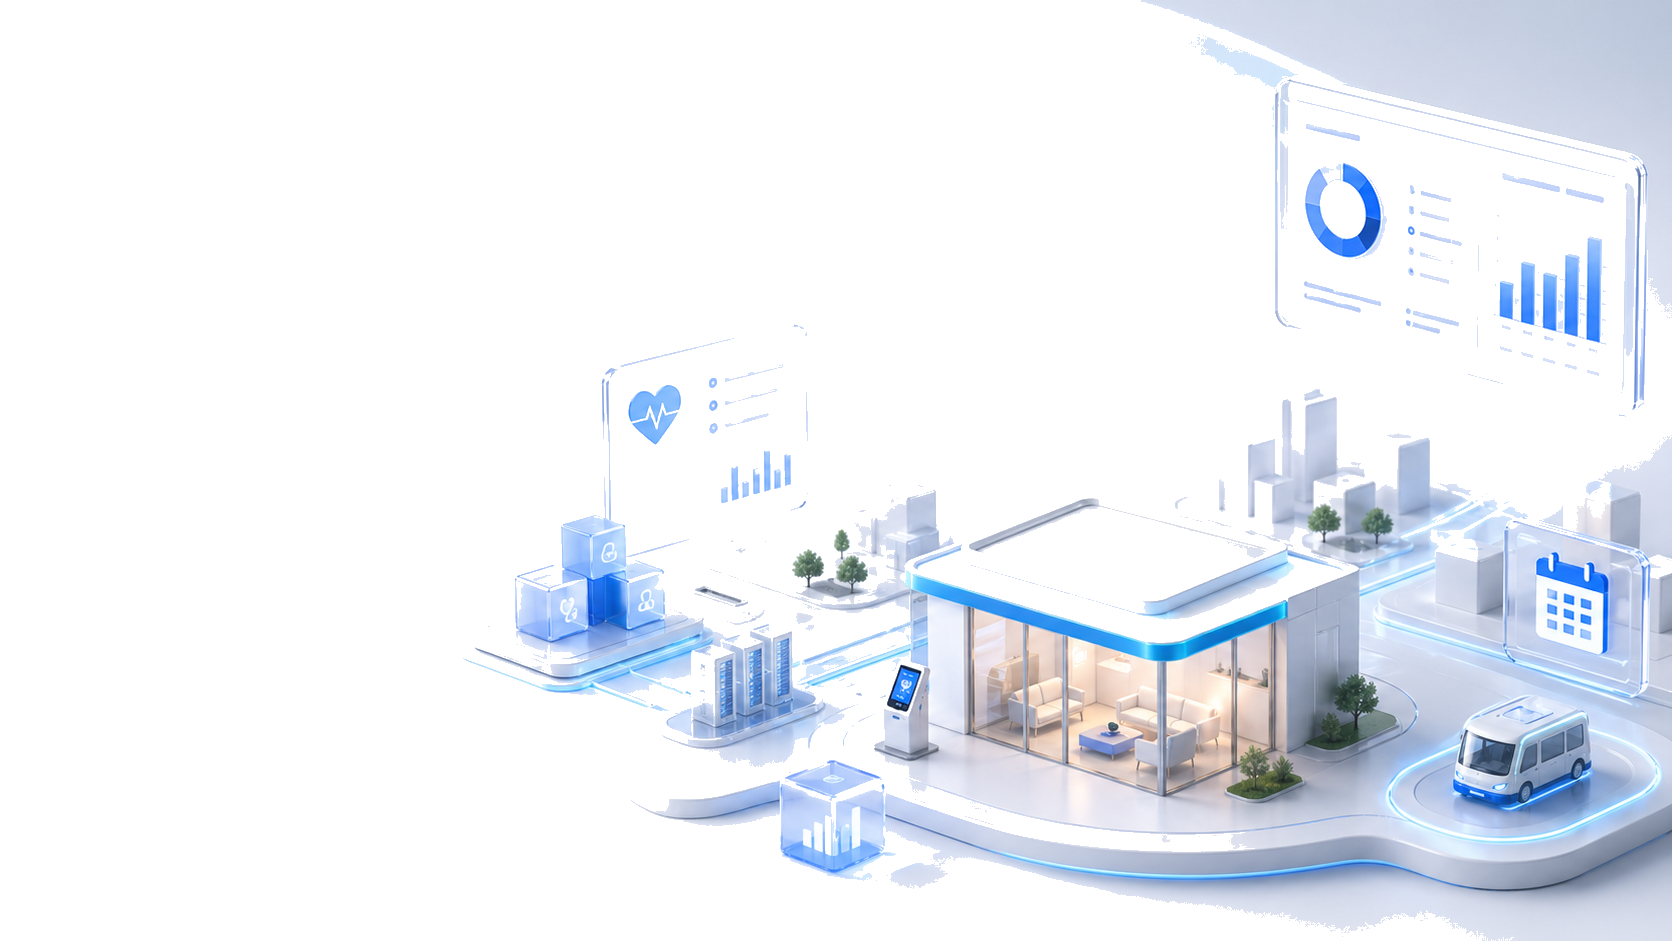
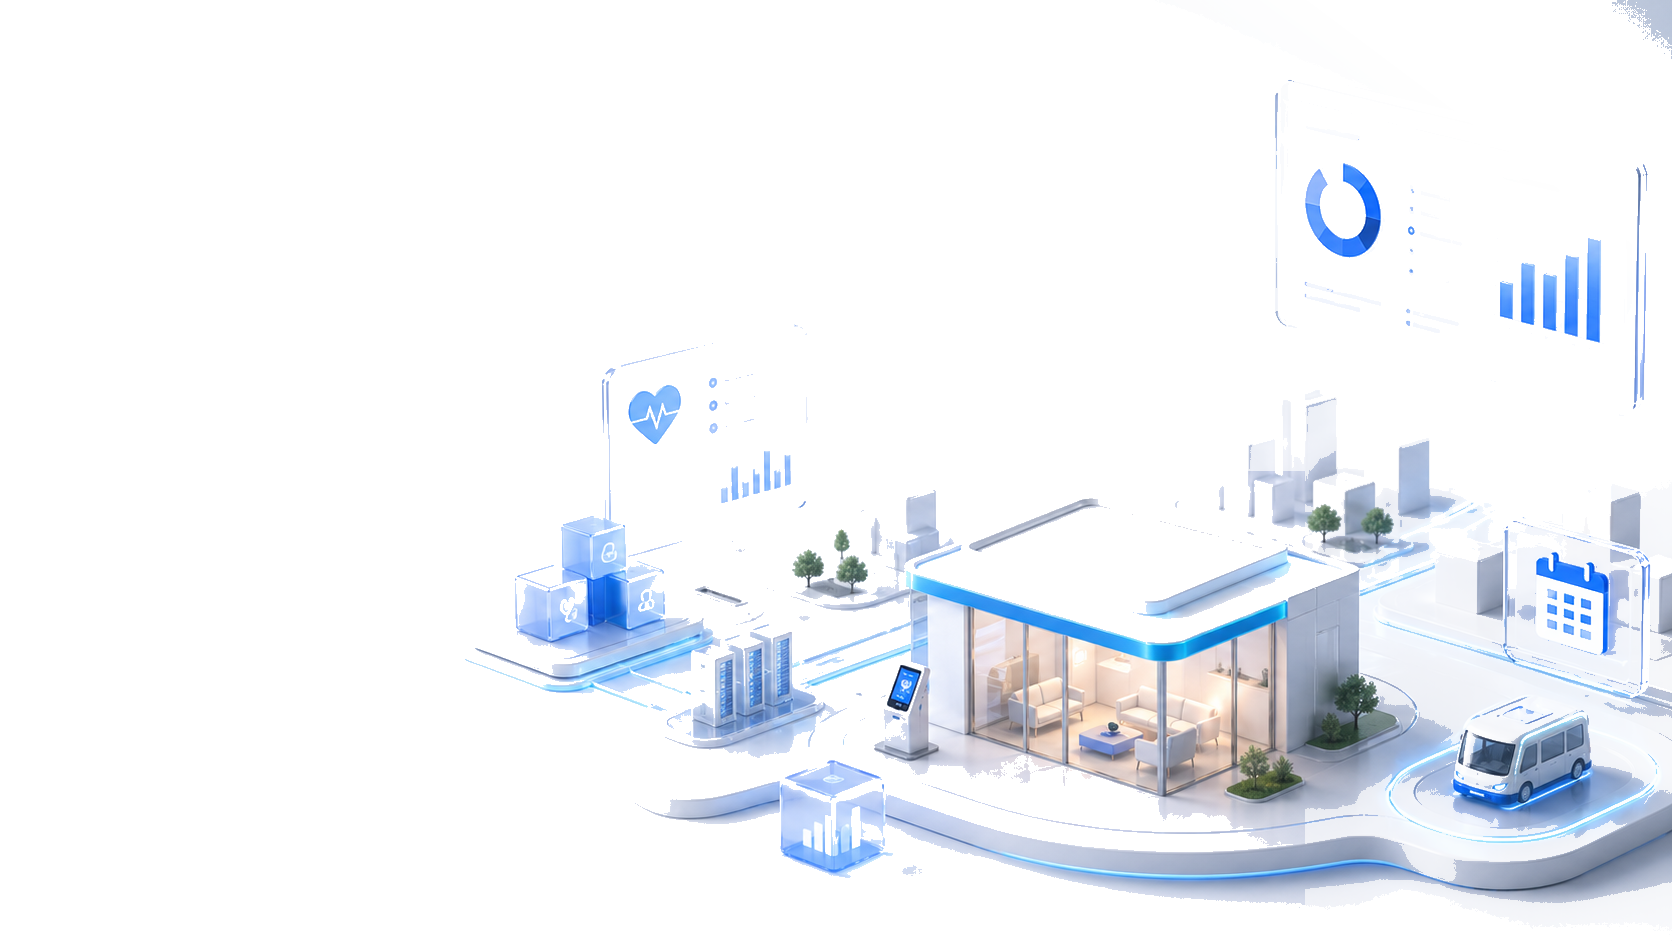
Fade hero object edges

diff --git a/about/index.html b/about/index.html
@@ -17,7 +17,7 @@
         <link rel="preconnect" href="https://fonts.googleapis.com">
         <link rel="preconnect" href="https://fonts.gstatic.com" crossorigin>
         <link href="https://fonts.googleapis.com/css2?family=Inter:wght@400;500;600;700&family=Noto+Sans+JP:wght@400;500;600;700&display=swap" rel="stylesheet">
-        <link rel="stylesheet" href="/assets/styles.css?v=20260428-object-only-hero">
+        <link rel="stylesheet" href="/assets/styles.css?v=20260428-hero-edge-fade">
         <script type="application/ld+json">{"@context":"https://schema.org","@type":"Organization","name":"株式会社Medixus","alternateName":"Medixus, Inc.","url":"https://medixus.jp","foundingDate":"2025","founder":{"@type":"Person","name":"大原健太郎"}}</script>
       </head>
       <body>
@@ -78,7 +78,7 @@
       <div class="container footer-grid">
         <div class="footer-brand">
           <a class="footer-logo" href="/" aria-label="Medixus トップページ">
-            <img class="footer-logo-image" src="/assets/images/medixus-logo-footer.png?v=20260428-object-only-hero" alt="Medixus">
+            <img class="footer-logo-image" src="/assets/images/medixus-logo-footer.png?v=20260428-hero-edge-fade" alt="Medixus">
           </a>
           <p>AIとテクノロジーの力で、すべての人に最高の医療を届ける社会を実現します。</p>
         </div>
@@ -118,6 +118,6 @@
       </div>
     </footer>
   
-        <script src="/assets/site.js?v=20260428-object-only-hero" defer></script>
+        <script src="/assets/site.js?v=20260428-hero-edge-fade" defer></script>
       </body>
     </html>

diff --git a/business/index.html b/business/index.html
@@ -17,7 +17,7 @@
         <link rel="preconnect" href="https://fonts.googleapis.com">
         <link rel="preconnect" href="https://fonts.gstatic.com" crossorigin>
         <link href="https://fonts.googleapis.com/css2?family=Inter:wght@400;500;600;700&family=Noto+Sans+JP:wght@400;500;600;700&display=swap" rel="stylesheet">
-        <link rel="stylesheet" href="/assets/styles.css?v=20260428-object-only-hero">
+        <link rel="stylesheet" href="/assets/styles.css?v=20260428-hero-edge-fade">
         <script type="application/ld+json">{"@context":"https://schema.org","@type":"Organization","name":"株式会社Medixus","alternateName":"Medixus, Inc.","url":"https://medixus.jp","foundingDate":"2025","founder":{"@type":"Person","name":"大原健太郎"}}</script>
       </head>
       <body>
@@ -100,7 +100,7 @@
       <div class="container footer-grid">
         <div class="footer-brand">
           <a class="footer-logo" href="/" aria-label="Medixus トップページ">
-            <img class="footer-logo-image" src="/assets/images/medixus-logo-footer.png?v=20260428-object-only-hero" alt="Medixus">
+            <img class="footer-logo-image" src="/assets/images/medixus-logo-footer.png?v=20260428-hero-edge-fade" alt="Medixus">
           </a>
           <p>AIとテクノロジーの力で、すべての人に最高の医療を届ける社会を実現します。</p>
         </div>
@@ -140,6 +140,6 @@
       </div>
     </footer>
   
-        <script src="/assets/site.js?v=20260428-object-only-hero" defer></script>
+        <script src="/assets/site.js?v=20260428-hero-edge-fade" defer></script>
       </body>
     </html>

diff --git a/contact/index.html b/contact/index.html
@@ -17,7 +17,7 @@
         <link rel="preconnect" href="https://fonts.googleapis.com">
         <link rel="preconnect" href="https://fonts.gstatic.com" crossorigin>
         <link href="https://fonts.googleapis.com/css2?family=Inter:wght@400;500;600;700&family=Noto+Sans+JP:wght@400;500;600;700&display=swap" rel="stylesheet">
-        <link rel="stylesheet" href="/assets/styles.css?v=20260428-object-only-hero">
+        <link rel="stylesheet" href="/assets/styles.css?v=20260428-hero-edge-fade">
         <script type="application/ld+json">{"@context":"https://schema.org","@type":"Organization","name":"株式会社Medixus","alternateName":"Medixus, Inc.","url":"https://medixus.jp","foundingDate":"2025","founder":{"@type":"Person","name":"大原健太郎"}}</script>
       </head>
       <body>
@@ -80,7 +80,7 @@
       <div class="container footer-grid">
         <div class="footer-brand">
           <a class="footer-logo" href="/" aria-label="Medixus トップページ">
-            <img class="footer-logo-image" src="/assets/images/medixus-logo-footer.png?v=20260428-object-only-hero" alt="Medixus">
+            <img class="footer-logo-image" src="/assets/images/medixus-logo-footer.png?v=20260428-hero-edge-fade" alt="Medixus">
           </a>
           <p>AIとテクノロジーの力で、すべての人に最高の医療を届ける社会を実現します。</p>
         </div>
@@ -120,6 +120,6 @@
       </div>
     </footer>
   
-        <script src="/assets/site.js?v=20260428-object-only-hero" defer></script>
+        <script src="/assets/site.js?v=20260428-hero-edge-fade" defer></script>
       </body>
     </html>

diff --git a/index.html b/index.html
@@ -17,7 +17,7 @@
         <link rel="preconnect" href="https://fonts.googleapis.com">
         <link rel="preconnect" href="https://fonts.gstatic.com" crossorigin>
         <link href="https://fonts.googleapis.com/css2?family=Inter:wght@400;500;600;700&family=Noto+Sans+JP:wght@400;500;600;700&display=swap" rel="stylesheet">
-        <link rel="stylesheet" href="/assets/styles.css?v=20260428-object-only-hero">
+        <link rel="stylesheet" href="/assets/styles.css?v=20260428-hero-edge-fade">
         <script type="application/ld+json">{"@context":"https://schema.org","@type":"Organization","name":"株式会社Medixus","alternateName":"Medixus, Inc.","url":"https://medixus.jp","foundingDate":"2025","founder":{"@type":"Person","name":"大原健太郎"}}</script>
       </head>
       <body>
@@ -262,7 +262,7 @@
       <div class="container footer-grid">
         <div class="footer-brand">
           <a class="footer-logo" href="/" aria-label="Medixus トップページ">
-            <img class="footer-logo-image" src="/assets/images/medixus-logo-footer.png?v=20260428-object-only-hero" alt="Medixus">
+            <img class="footer-logo-image" src="/assets/images/medixus-logo-footer.png?v=20260428-hero-edge-fade" alt="Medixus">
           </a>
           <p>AIとテクノロジーの力で、すべての人に最高の医療を届ける社会を実現します。</p>
         </div>
@@ -302,6 +302,6 @@
       </div>
     </footer>
   
-        <script src="/assets/site.js?v=20260428-object-only-hero" defer></script>
+        <script src="/assets/site.js?v=20260428-hero-edge-fade" defer></script>
       </body>
     </html>

diff --git a/ir/index.html b/ir/index.html
@@ -17,7 +17,7 @@
         <link rel="preconnect" href="https://fonts.googleapis.com">
         <link rel="preconnect" href="https://fonts.gstatic.com" crossorigin>
         <link href="https://fonts.googleapis.com/css2?family=Inter:wght@400;500;600;700&family=Noto+Sans+JP:wght@400;500;600;700&display=swap" rel="stylesheet">
-        <link rel="stylesheet" href="/assets/styles.css?v=20260428-object-only-hero">
+        <link rel="stylesheet" href="/assets/styles.css?v=20260428-hero-edge-fade">
         <script type="application/ld+json">{"@context":"https://schema.org","@type":"Organization","name":"株式会社Medixus","alternateName":"Medixus, Inc.","url":"https://medixus.jp","foundingDate":"2025","founder":{"@type":"Person","name":"大原健太郎"}}</script>
       </head>
       <body>
@@ -146,7 +146,7 @@
       <div class="container footer-grid">
         <div class="footer-brand">
           <a class="footer-logo" href="/" aria-label="Medixus トップページ">
-            <img class="footer-logo-image" src="/assets/images/medixus-logo-footer.png?v=20260428-object-only-hero" alt="Medixus">
+            <img class="footer-logo-image" src="/assets/images/medixus-logo-footer.png?v=20260428-hero-edge-fade" alt="Medixus">
           </a>
           <p>AIとテクノロジーの力で、すべての人に最高の医療を届ける社会を実現します。</p>
         </div>
@@ -186,6 +186,6 @@
       </div>
     </footer>
   
-        <script src="/assets/site.js?v=20260428-object-only-hero" defer></script>
+        <script src="/assets/site.js?v=20260428-hero-edge-fade" defer></script>
       </body>
     </html>

diff --git a/news/index.html b/news/index.html
@@ -17,7 +17,7 @@
         <link rel="preconnect" href="https://fonts.googleapis.com">
         <link rel="preconnect" href="https://fonts.gstatic.com" crossorigin>
         <link href="https://fonts.googleapis.com/css2?family=Inter:wght@400;500;600;700&family=Noto+Sans+JP:wght@400;500;600;700&display=swap" rel="stylesheet">
-        <link rel="stylesheet" href="/assets/styles.css?v=20260428-object-only-hero">
+        <link rel="stylesheet" href="/assets/styles.css?v=20260428-hero-edge-fade">
         <script type="application/ld+json">{"@context":"https://schema.org","@type":"Organization","name":"株式会社Medixus","alternateName":"Medixus, Inc.","url":"https://medixus.jp","foundingDate":"2025","founder":{"@type":"Person","name":"大原健太郎"}}</script>
       </head>
       <body>
@@ -104,7 +104,7 @@
       <div class="container footer-grid">
         <div class="footer-brand">
           <a class="footer-logo" href="/" aria-label="Medixus トップページ">
-            <img class="footer-logo-image" src="/assets/images/medixus-logo-footer.png?v=20260428-object-only-hero" alt="Medixus">
+            <img class="footer-logo-image" src="/assets/images/medixus-logo-footer.png?v=20260428-hero-edge-fade" alt="Medixus">
           </a>
           <p>AIとテクノロジーの力で、すべての人に最高の医療を届ける社会を実現します。</p>
         </div>
@@ -144,6 +144,6 @@
       </div>
     </footer>
   
-        <script src="/assets/site.js?v=20260428-object-only-hero" defer></script>
+        <script src="/assets/site.js?v=20260428-hero-edge-fade" defer></script>
       </body>
     </html>

diff --git a/os/index.html b/os/index.html
@@ -17,7 +17,7 @@
         <link rel="preconnect" href="https://fonts.googleapis.com">
         <link rel="preconnect" href="https://fonts.gstatic.com" crossorigin>
         <link href="https://fonts.googleapis.com/css2?family=Inter:wght@400;500;600;700&family=Noto+Sans+JP:wght@400;500;600;700&display=swap" rel="stylesheet">
-        <link rel="stylesheet" href="/assets/styles.css?v=20260428-object-only-hero">
+        <link rel="stylesheet" href="/assets/styles.css?v=20260428-hero-edge-fade">
         <script type="application/ld+json">{"@context":"https://schema.org","@type":"Organization","name":"株式会社Medixus","alternateName":"Medixus, Inc.","url":"https://medixus.jp","foundingDate":"2025","founder":{"@type":"Person","name":"大原健太郎"}}</script>
 <script type="application/ld+json">{"@context":"https://schema.org","@type":"FAQPage","mainEntity":[{"@type":"Question","name":"既存カルテから移行できますか？","acceptedAnswer":{"@type":"Answer","text":"CSV/ORCA対応予定です。"}},{"@type":"Question","name":"保険診療対応は？","acceptedAnswer":{"@type":"Answer","text":"現在は自由診療特化。今後ロードマップに含みます。"}},{"@type":"Question","name":"サポート体制は？","acceptedAnswer":{"@type":"Answer","text":"チャットとメールで対応します。初月は専任担当が導入を支援します。"}},{"@type":"Question","name":"最低契約期間は？","acceptedAnswer":{"@type":"Answer","text":"6ヶ月です。"}}]}</script>
       </head>
@@ -123,7 +123,7 @@
       <div class="container footer-grid">
         <div class="footer-brand">
           <a class="footer-logo" href="/" aria-label="Medixus トップページ">
-            <img class="footer-logo-image" src="/assets/images/medixus-logo-footer.png?v=20260428-object-only-hero" alt="Medixus">
+            <img class="footer-logo-image" src="/assets/images/medixus-logo-footer.png?v=20260428-hero-edge-fade" alt="Medixus">
           </a>
           <p>AIとテクノロジーの力で、すべての人に最高の医療を届ける社会を実現します。</p>
         </div>
@@ -163,6 +163,6 @@
       </div>
     </footer>
   
-        <script src="/assets/site.js?v=20260428-object-only-hero" defer></script>
+        <script src="/assets/site.js?v=20260428-hero-edge-fade" defer></script>
       </body>
     </html>

diff --git a/privacy/index.html b/privacy/index.html
@@ -17,7 +17,7 @@
         <link rel="preconnect" href="https://fonts.googleapis.com">
         <link rel="preconnect" href="https://fonts.gstatic.com" crossorigin>
         <link href="https://fonts.googleapis.com/css2?family=Inter:wght@400;500;600;700&family=Noto+Sans+JP:wght@400;500;600;700&display=swap" rel="stylesheet">
-        <link rel="stylesheet" href="/assets/styles.css?v=20260428-object-only-hero">
+        <link rel="stylesheet" href="/assets/styles.css?v=20260428-hero-edge-fade">
         <script type="application/ld+json">{"@context":"https://schema.org","@type":"Organization","name":"株式会社Medixus","alternateName":"Medixus, Inc.","url":"https://medixus.jp","foundingDate":"2025","founder":{"@type":"Person","name":"大原健太郎"}}</script>
       </head>
       <body>
@@ -62,7 +62,7 @@
       <div class="container footer-grid">
         <div class="footer-brand">
           <a class="footer-logo" href="/" aria-label="Medixus トップページ">
-            <img class="footer-logo-image" src="/assets/images/medixus-logo-footer.png?v=20260428-object-only-hero" alt="Medixus">
+            <img class="footer-logo-image" src="/assets/images/medixus-logo-footer.png?v=20260428-hero-edge-fade" alt="Medixus">
           </a>
           <p>AIとテクノロジーの力で、すべての人に最高の医療を届ける社会を実現します。</p>
         </div>
@@ -102,6 +102,6 @@
       </div>
     </footer>
   
-        <script src="/assets/site.js?v=20260428-object-only-hero" defer></script>
+        <script src="/assets/site.js?v=20260428-hero-edge-fade" defer></script>
       </body>
     </html>

diff --git a/recruit/index.html b/recruit/index.html
@@ -17,7 +17,7 @@
         <link rel="preconnect" href="https://fonts.googleapis.com">
         <link rel="preconnect" href="https://fonts.gstatic.com" crossorigin>
         <link href="https://fonts.googleapis.com/css2?family=Inter:wght@400;500;600;700&family=Noto+Sans+JP:wght@400;500;600;700&display=swap" rel="stylesheet">
-        <link rel="stylesheet" href="/assets/styles.css?v=20260428-object-only-hero">
+        <link rel="stylesheet" href="/assets/styles.css?v=20260428-hero-edge-fade">
         <script type="application/ld+json">{"@context":"https://schema.org","@type":"Organization","name":"株式会社Medixus","alternateName":"Medixus, Inc.","url":"https://medixus.jp","foundingDate":"2025","founder":{"@type":"Person","name":"大原健太郎"}}</script>
 <script type="application/ld+json">{"@context":"https://schema.org","@type":"FAQPage","mainEntity":[{"@type":"Question","name":"専門科は？","acceptedAnswer":{"@type":"Answer","text":"問いません。"}},{"@type":"Question","name":"非常勤でも？","acceptedAnswer":{"@type":"Answer","text":"OKです。"}},{"@type":"Question","name":"勤務先と競合？","acceptedAnswer":{"@type":"Answer","text":"業務委託のため原則抵触しません。"}},{"@type":"Question","name":"研修は？","acceptedAnswer":{"@type":"Answer","text":"オンライン1時間を予定しています。"}}]}</script>
       </head>
@@ -104,7 +104,7 @@
       <div class="container footer-grid">
         <div class="footer-brand">
           <a class="footer-logo" href="/" aria-label="Medixus トップページ">
-            <img class="footer-logo-image" src="/assets/images/medixus-logo-footer.png?v=20260428-object-only-hero" alt="Medixus">
+            <img class="footer-logo-image" src="/assets/images/medixus-logo-footer.png?v=20260428-hero-edge-fade" alt="Medixus">
           </a>
           <p>AIとテクノロジーの力で、すべての人に最高の医療を届ける社会を実現します。</p>
         </div>
@@ -144,6 +144,6 @@
       </div>
     </footer>
   
-        <script src="/assets/site.js?v=20260428-object-only-hero" defer></script>
+        <script src="/assets/site.js?v=20260428-hero-edge-fade" defer></script>
       </body>
     </html>

diff --git a/assets/styles.css b/assets/styles.css
@@ -1492,6 +1492,8 @@ body {
   filter:
     drop-shadow(0 26px 52px rgba(9, 40, 86, 0.08))
     saturate(0.98);
+  -webkit-mask-image: radial-gradient(ellipse 74% 68% at 57% 61%, #000 0%, #000 62%, rgba(0, 0, 0, 0.66) 76%, transparent 96%);
+  mask-image: radial-gradient(ellipse 74% 68% at 57% 61%, #000 0%, #000 62%, rgba(0, 0, 0, 0.66) 76%, transparent 96%);
 }
 
 .hero-exact-mark {